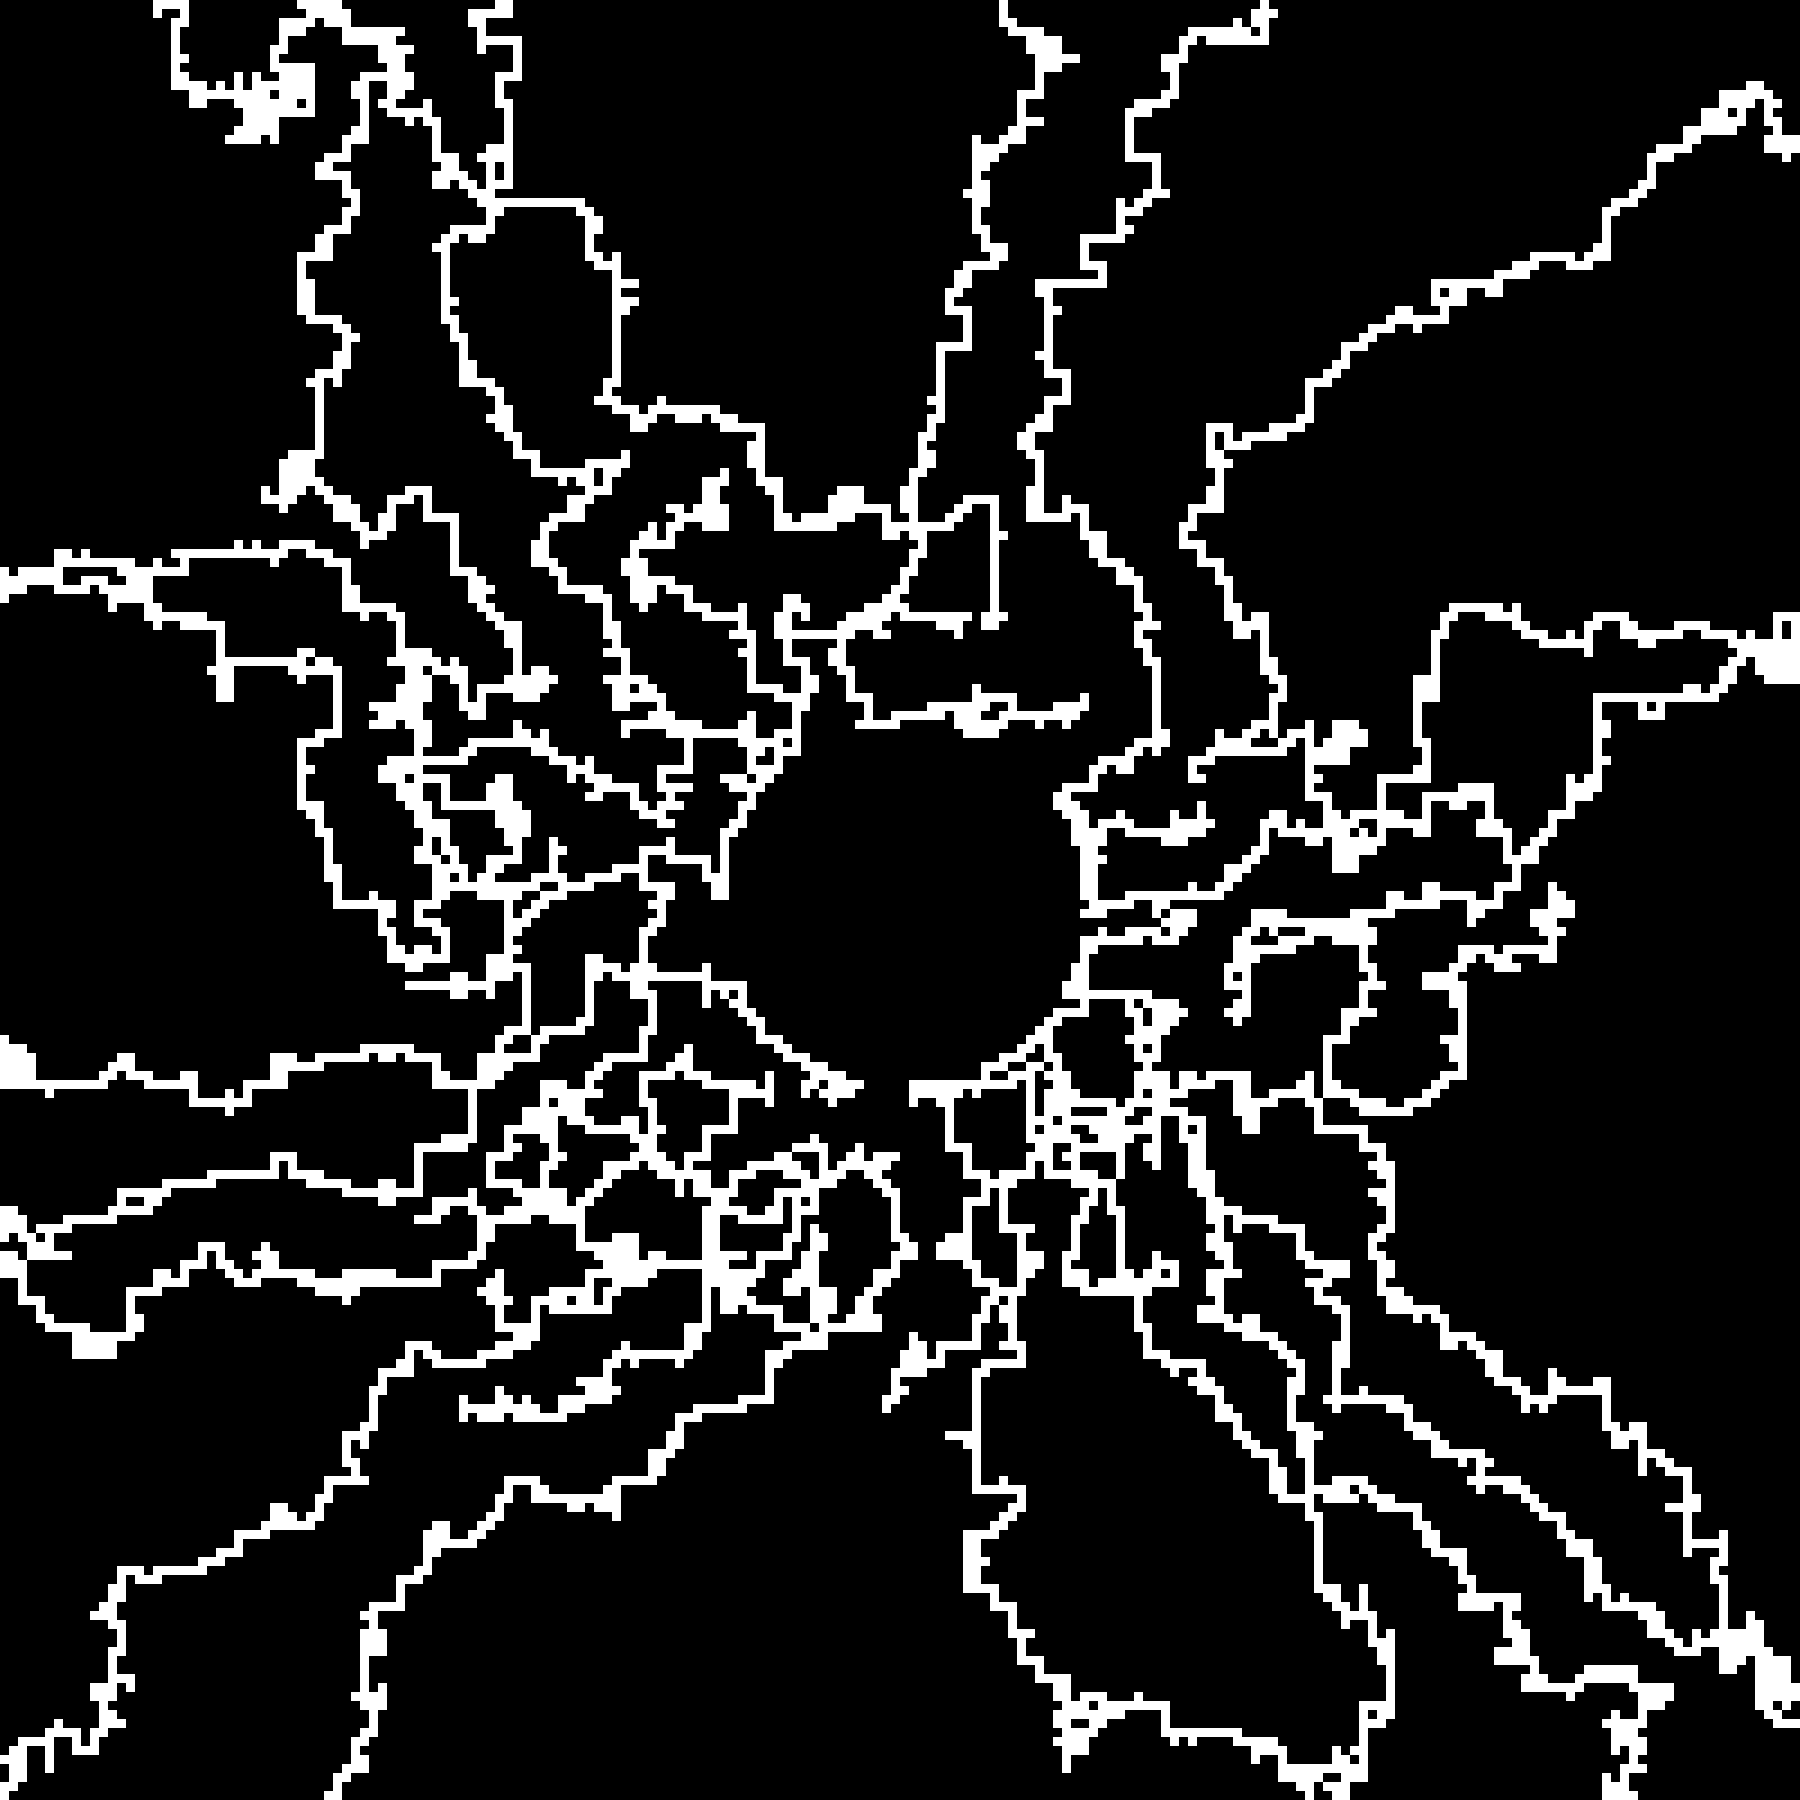
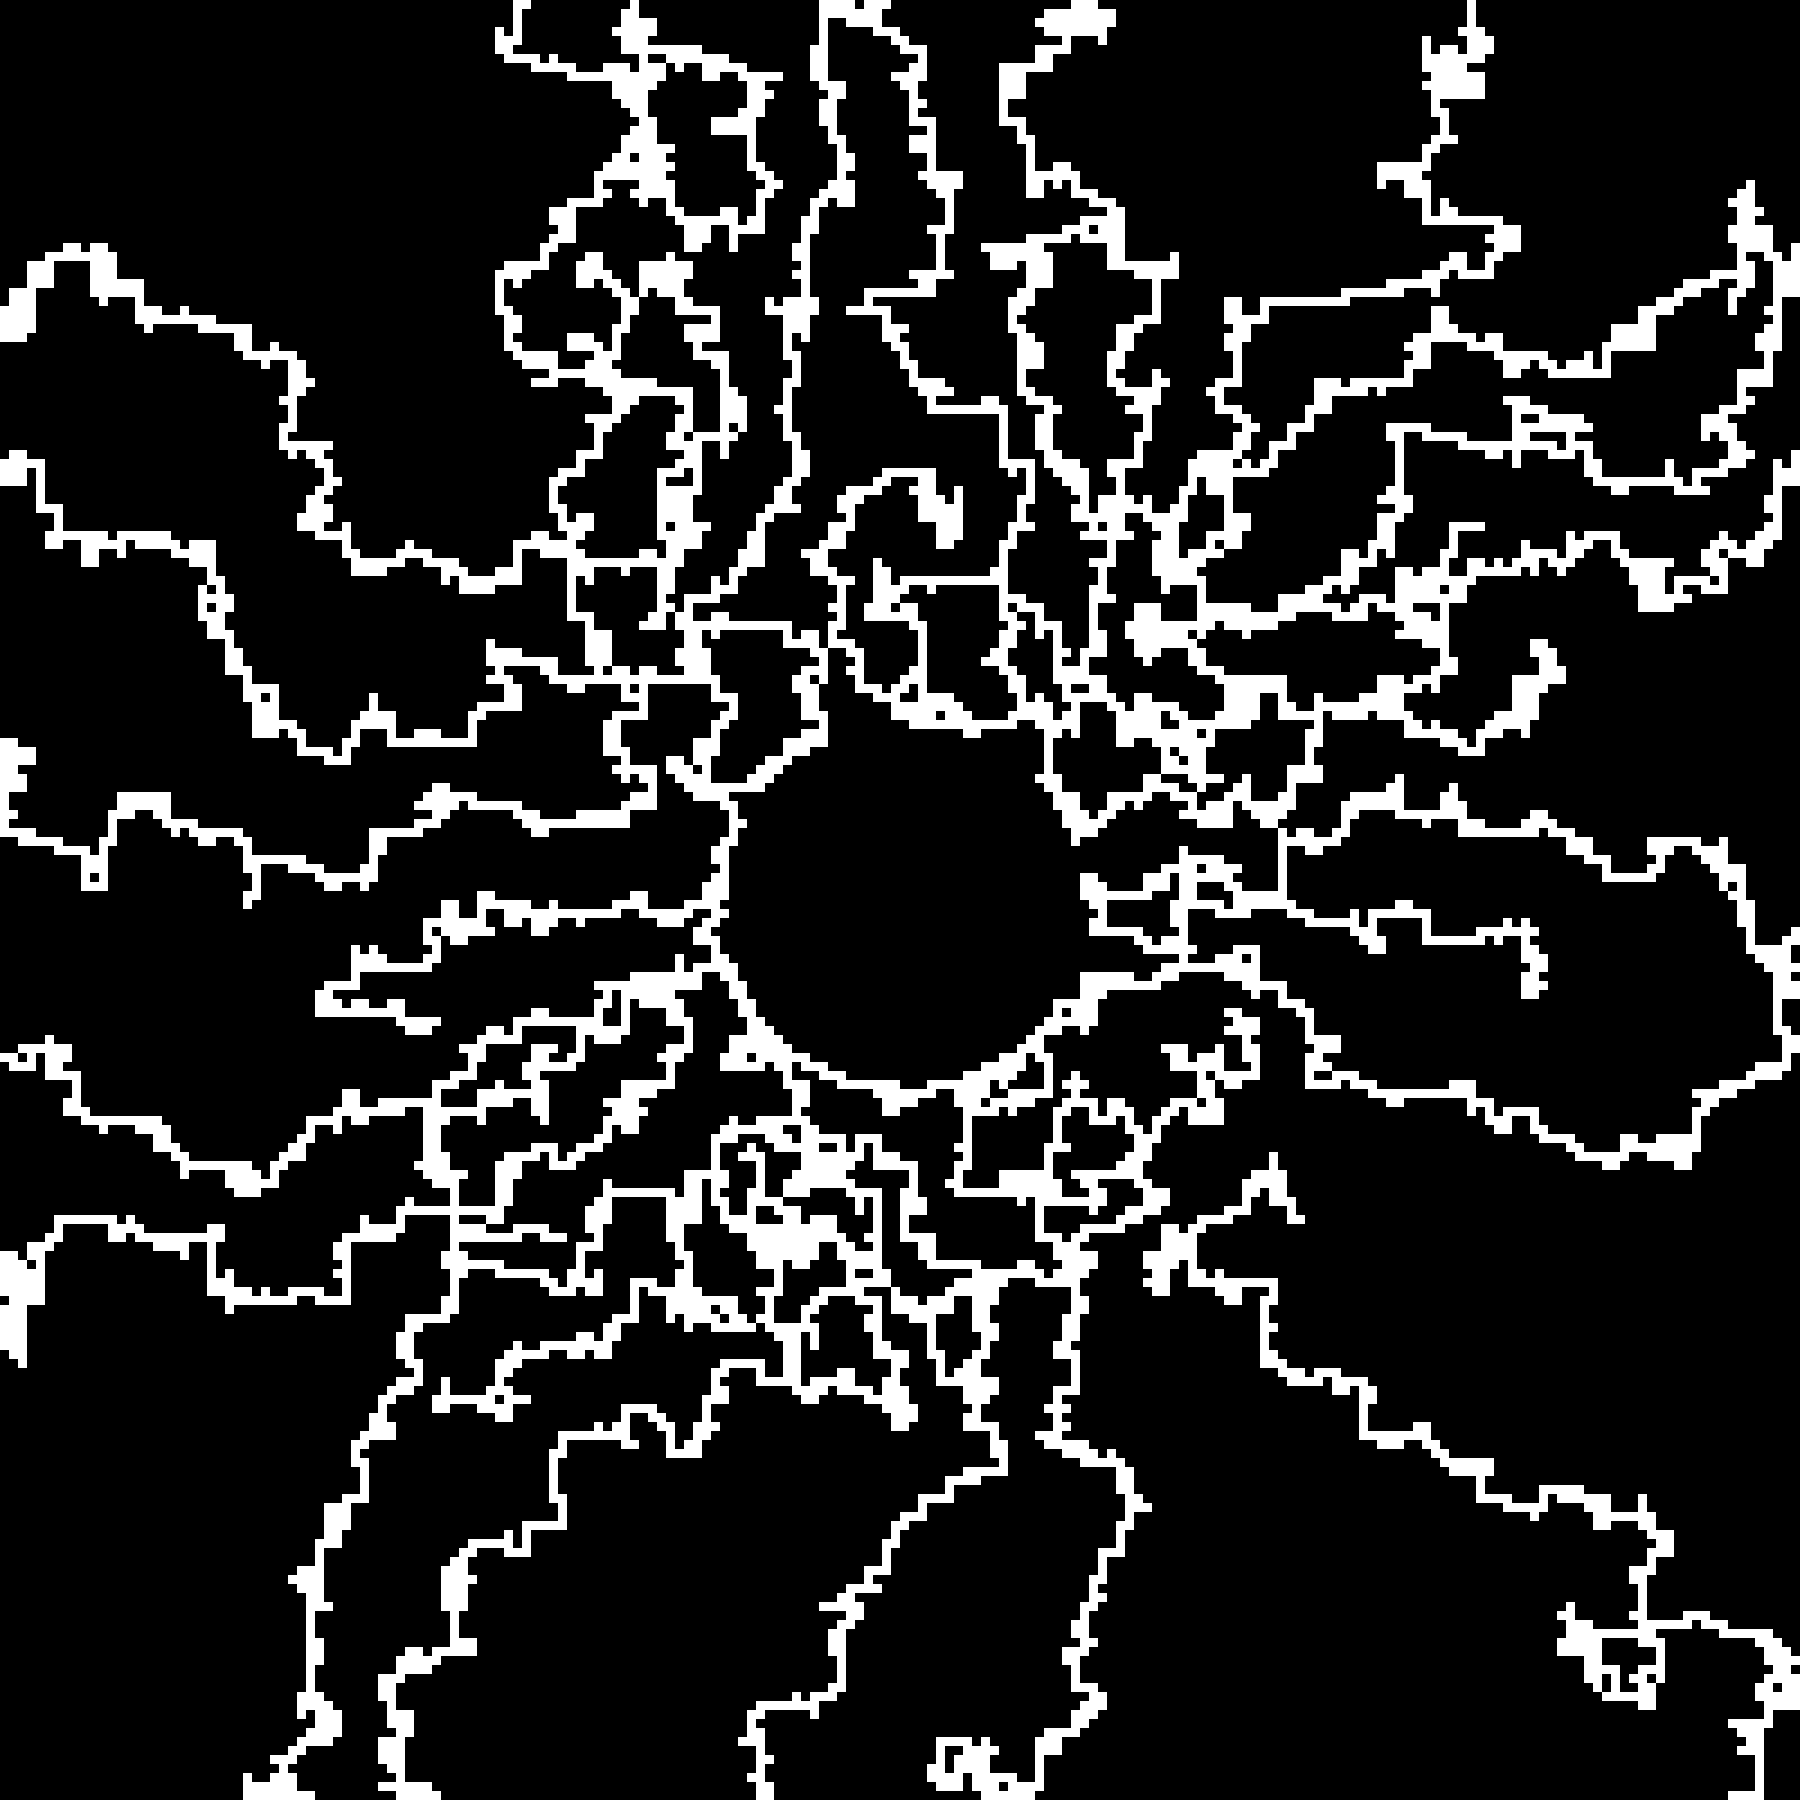
added ability to vary tumor_prob

diff --git a/network_analysis.py b/network_analysis.py
@@ -60,12 +60,12 @@ def network_analysis(image, show_skeleton=True, show_graph=True, print_results=T
     return average_degree, average_betweenness, average_page_rank, average_clustering_coefficient, degree_distribution
 
 def run_experiments():
-    experiment_type = input('Enter the experiment type (bias_factor, decay_factor, constant): ')
+    experiment_type = input('Enter the experiment type (bias_factor, decay_factor, tumor_prob, constant): ')
     num_runs = int(input('Enter the number of runs for each experimental value: '))
     
     if experiment_type == 'bias_factor':
         bias_factors = np.linspace(0, 1.0, 5)
-        decay_factor = 0.99
+        decay_factor = 0.95
         results = []
         for bias_factor in bias_factors:
             for run in range(num_runs):
@@ -76,7 +76,8 @@ def run_experiments():
                     steps=500, 
                     bias_factor=bias_factor, 
                     decay_factor=decay_factor, 
-                    neighborhood_radius=10, 
+                    neighborhood_radius=10,
+                    tumor_prob=0.5, 
                     wrap_around=False,
                     plot=False)
                 
@@ -84,8 +85,8 @@ def run_experiments():
                 image = io.imread('images/final_grid.png')
                 average_degree, average_betweenness, average_page_rank, average_cc, degree_dist = network_analysis(image, show_skeleton=False, show_graph=False, print_results=False)
                 results.append({
-                    'bias_factor': bias_factor,
                     'run': run + 1,
+                    'bias_factor': bias_factor,
                     'min_entropy': min_entropy,
                     'average_degree': average_degree,
                     'average_betweenness': average_betweenness,
@@ -99,7 +100,7 @@ def run_experiments():
     
     elif experiment_type == 'decay_factor':
         bias_factor = 0.9
-        decay_factors = np.linspace(0.8, 1.0, 5)
+        decay_factors = np.linspace(0.5, 1.0, 5)
         results = []
         for decay_factor in decay_factors:
             for run in range(num_runs):
@@ -110,7 +111,8 @@ def run_experiments():
                     steps=500, 
                     bias_factor=bias_factor, 
                     decay_factor=decay_factor, 
-                    neighborhood_radius=10, 
+                    neighborhood_radius=10,
+                    tumor_prob=0.5, 
                     wrap_around=False, 
                     plot=False)
                 
@@ -118,8 +120,8 @@ def run_experiments():
                 image = io.imread('images/final_grid.png')
                 average_degree, average_betweenness, average_page_rank, average_cc, degree_dist = network_analysis(image, show_skeleton=False, show_graph=False, print_results=False)
                 results.append({
-                    'decay_factor': decay_factor,
                     'run': run + 1,
+                    'decay_factor': decay_factor,
                     'min_entropy': min_entropy,
                     'average_degree': average_degree,
                     'average_betweenness': average_betweenness,
@@ -133,7 +135,7 @@ def run_experiments():
     
     elif experiment_type == 'constant':
         bias_factor = 0.9
-        decay_factor = 0.99
+        decay_factor = 0.95
         results = []
         for run in range(num_runs):
             print(f'Running simulation for constant factors, run {run + 1}...')
@@ -143,7 +145,8 @@ def run_experiments():
                 steps=500, 
                 bias_factor=bias_factor, 
                 decay_factor=decay_factor, 
-                neighborhood_radius=10, 
+                neighborhood_radius=10,
+                tumor_prob=0.5,
                 wrap_around=False,
                 plot=False)
             
@@ -159,6 +162,42 @@ def run_experiments():
                 'average_clustering_coefficient': average_cc
             })
             print()
+        
+        df = pd.DataFrame(results)
+        df.to_csv(f'data/{experiment_type}_results.csv', index=False)
+    
+    if experiment_type == 'tumor_prob':
+        tumor_probs = np.linspace(0.1, 0.99, 10)
+        bias_factor = 0.9
+        decay_factor = 0.99
+        results = []
+        for tumor_prob in tumor_probs:
+            for run in range(num_runs):
+                print(f'Running simulation for tumor_prob {tumor_prob}, run {run + 1}...')
+                grid, min_entropy = simulate_CA(
+                    size=200, 
+                    num_seeds=20, 
+                    steps=500, 
+                    bias_factor=bias_factor, 
+                    decay_factor=decay_factor, 
+                    neighborhood_radius=10,
+                    tumor_prob=tumor_prob,
+                    wrap_around=False,
+                    plot=False)
+                
+                vessel_image(grid, 'final_grid.png')
+                image = io.imread('images/final_grid.png')
+                average_degree, average_betweenness, average_page_rank, average_cc, degree_dist = network_analysis(image, show_skeleton=False, show_graph=False, print_results=False)
+                results.append({
+                    'run': run + 1,
+                    'tumor_prob': tumor_prob,
+                    'min_entropy': min_entropy,
+                    'average_degree': average_degree,
+                    'average_betweenness': average_betweenness,
+                    'average_page_rank': average_page_rank,
+                    'average_clustering_coefficient': average_cc
+                })
+                print()
         
         df = pd.DataFrame(results)
         df.to_csv(f'data/{experiment_type}_results.csv', index=False)

diff --git a/plot_results.py b/plot_results.py
@@ -5,14 +5,14 @@ import powerlaw
 
 # Load the data
 def plot_results():
-    experiment_type = input('Enter the experiment type (bias_factor, decay_factor, constant, distributions): ')
+    experiment_type = input('Enter the experiment type (bias_factor, decay_factor, constant, distributions, scatter): ')
     metrics = [
         "average_degree",
         "average_betweenness",
         "average_page_rank",
         "average_clustering_coefficient"]
 
-    if experiment_type not in ['constant', 'distributions']:
+    if experiment_type not in ['constant', 'distributions', 'scatter']:
         df = pd.read_csv(f"data/{experiment_type}_results.csv")
         grouped_mean = df.groupby(experiment_type).mean().reset_index()
         grouped_std = df.groupby(experiment_type).std().reset_index()
@@ -91,5 +91,31 @@ def plot_results():
             print(f"R2: {R2}, p2: {p2}")
             print()
             
+    elif experiment_type == 'scatter':
+        #new_experiment_type = input('Enter the experiment type (bias_factor, decay_factor, tumor_prob): ')
+        #df = pd.read_csv(f"data/{new_experiment_type}_results.csv")
+        combined_df = pd.concat(
+            [pd.read_csv(f"data/{factor}_results.csv").assign(factor=factor) for factor in ['bias_factor', 'decay_factor', 'tumor_prob']],
+            ignore_index=True
+        )
+        _, axes = plt.subplots(2, 2, figsize=(12, 7.5))
+        axes = axes.flatten()
+        for i, metric in enumerate(metrics):
+            ax = axes[i]
+            scatter = ax.scatter(
+                combined_df[metric],  # x-axis
+                combined_df["min_entropy"],  # y-axis
+                #c=combined_df[new_experiment_type],  # color by factor
+                label=metric.replace('_', ' ').title(),
+                s=20
+            )
+            ax.set_xlabel(metric.replace('_', ' ').title())
+            ax.set_ylabel("Min Tumor Entropy")
+            ax.grid(False)
+        # handles, labels = scatter.legend_elements(prop="colors", alpha=0.6)
+        # axes[1].legend(handles, labels, title=f"{new_experiment_type}", bbox_to_anchor=(1.02, 1.025), loc='upper left')
+        plt.suptitle("Min Tumor Entropy vs. Network Metrics")
+        plt.tight_layout()
+        plt.show()
     
 plot_results()

diff --git a/growthdeath_jit.py b/growthdeath_jit.py
@@ -264,7 +264,7 @@ def shannon_entropy(grid):
     entropy = -np.sum(probabilities * np.log2(probabilities))
     return entropy
 
-def simulate_CA(size=200, num_seeds=20, steps=500, bias_factor=0.93, decay_factor=0.99, neighborhood_radius=10, wrap_around=False, plot=True):
+def simulate_CA(size=200, num_seeds=20, steps=500, bias_factor=0.93, decay_factor=0.99, neighborhood_radius=10, tumor_prob=0.5, wrap_around=False, plot=True):
     """
     Run a cellular automata-based angiogenesis model and compute Shannon entropy.
     Input:
@@ -282,7 +282,6 @@ def simulate_CA(size=200, num_seeds=20, steps=500, bias_factor=0.93, decay_facto
     vessel_grid = np.zeros((size, size), dtype=np.bool_) # Need to be separately delineated 
     tumor_grid = np.zeros((size, size), dtype=np.bool_)  # so they can occupy the same space
     tumor_factor = 0.1
-    tumor_prob = 0.5
     
     # Initialize seeds for blood vessels at random positions
     seeds = initialize_seeds(size)
@@ -365,6 +364,7 @@ def main():
     bias_factor = 0.93
     decay_factor = 0.99
     neighborhood_radius = 10
+    tumor_prob = 0.5
     wrap_around = False
 
     grid, min_entropy = simulate_CA(
@@ -374,6 +374,7 @@ def main():
         bias_factor=bias_factor,
         decay_factor=decay_factor,
         neighborhood_radius=neighborhood_radius,
+        tumor_prob=tumor_prob,
         wrap_around=wrap_around,
         plot=True
     )
